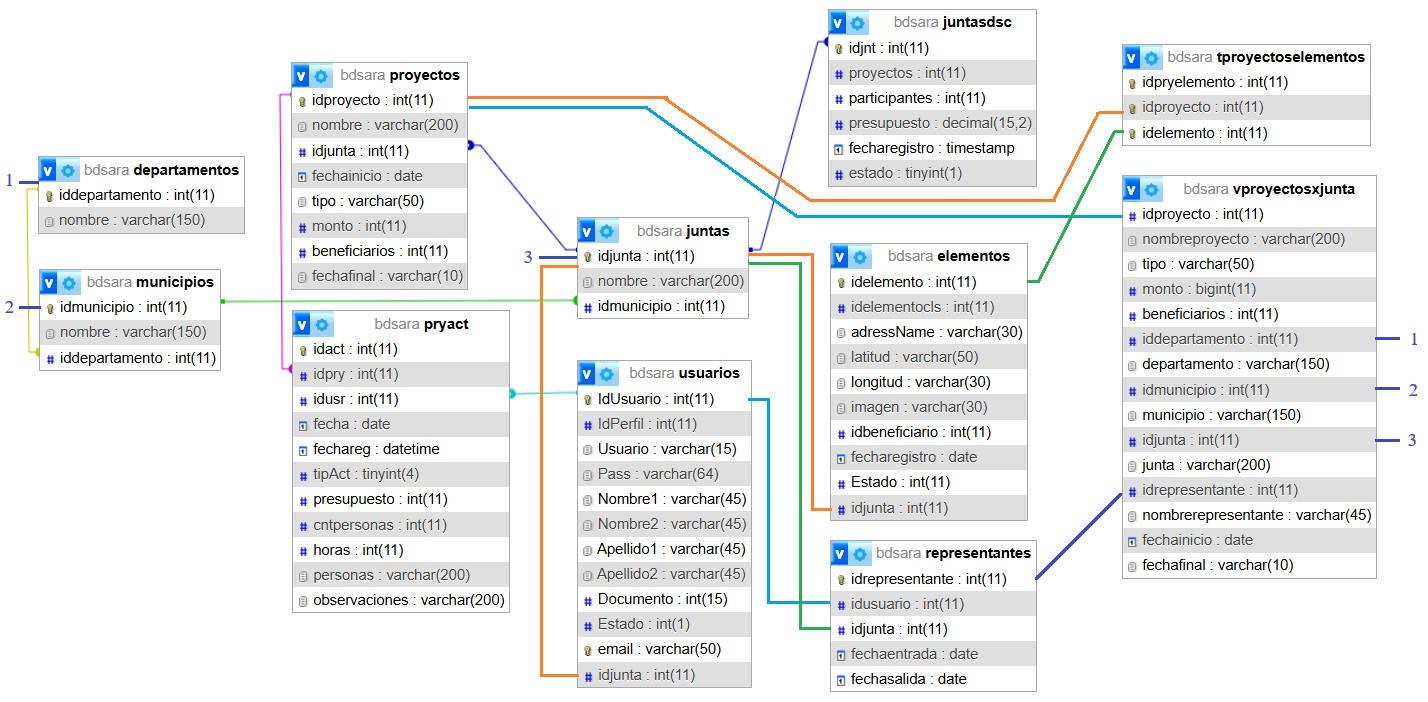
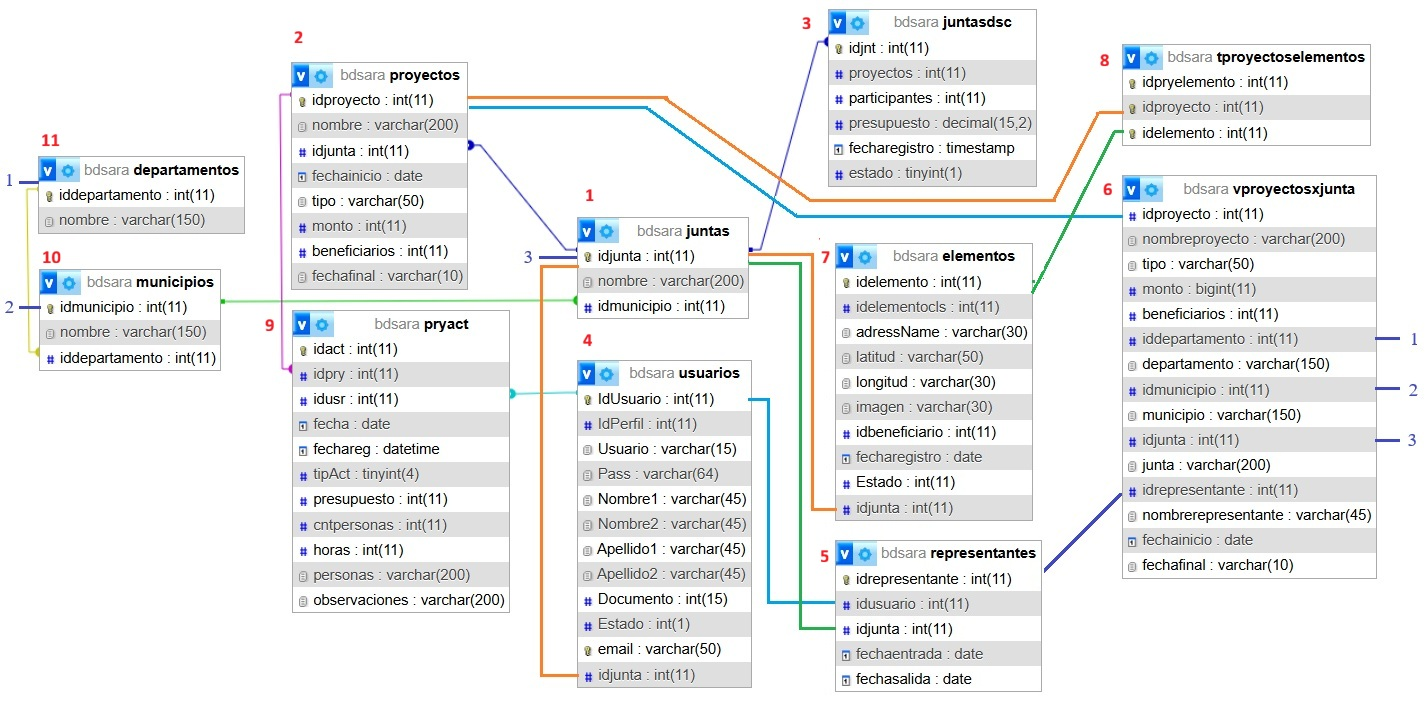
Actualizar Mkdocs y menú principal

diff --git a/back/vstInter.js b/back/vstInter.js
@@ -101,7 +101,7 @@ document.addEventListener("DOMContentLoaded", function () {
             <tr>
                 <th>#</th>            
                 <th>Proyecto</th>
-                <th>Monto</th>
+                <th>Dinero</th>
                 <th>-</th>
                 <th>Benef.</th>
                 <th>-</th>
@@ -116,9 +116,9 @@ document.addEventListener("DOMContentLoaded", function () {
                 <tr><td>${fila}</td>
                     <td>${d.proyecto}</td>
                     <td>${d.monto}</td>
-                    <td><img src="../img/barra.png" height="10" width="${ancho1}">
+                    <td><img src="../img/barra.png" height="12" width="${ancho1}">
                     <td>${d.beneficiarios}</td>
-                    <td><img src="../img/barra.png" height="10" width="${ancho2}">
+                    <td><img src="../img/barra.png" height="12" width="${ancho2}">
                     <td>${d.junta}</td>
                     <td>${d.municipio}</td>
                     <td>${d.departamento}</td>

diff --git a/back/estilos.css b/back/estilos.css
@@ -1,7 +1,6 @@
-        body { font-family: Arial; padding: 20px; font-size: 14px;}
+        body { font-family: Arial; padding: 10px; font-size: 12px;}
         form { margin-bottom: 20px; padding: 10px; background: #f7f7f7; border-radius: 6px; }
-        label { display: inline-block; width: 150px; }
-        table { width: 100%; border-collapse: collapse; margin-top: 15px; }
+        table { width: 100%; border-collapse: collapse; margin-top: 5px; font-size:12px }
         th, td { border: 1px solid #ccc; padding: 8px; }
         th { background: #eee; }
         .paginacion { margin-top: 20px; }

diff --git a/principal.php b/principal.php
@@ -2,33 +2,26 @@
 include("back/conexion.php"); 
 $link = conectarse();
 session_start(); ?>
-<html><head><meta><title>SaraII - Indicadores de gestión Comunitaria Rural</title></head><body>
+<html><head><meta><title>SaraII - Indicadores de Administración Comunitaria Rural</title></head><body>
 <?php
 if (isset($_SESSION["usuario"])) {
     echo 'Estas como: '.$_SESSION["usuario"];
     ?>
     &nbsp;<a href="logOut.php">Cerrar sesión</a>
-<nav>
-  <ul>
-    <li><a href="index.php">Inicio</a></li>
-    <?php // if (isset($_SESSION['rol']) && $_SESSION['rol'] === 'admin'): ?>
-      <li>
+    <nav><?php // if (isset($_SESSION['rol']) && $_SESSION['rol'] === 'admin'): ?>
         <ul>
-          <li><a href="admin/indcorelEjec.php">Ind. de Corelación de Ejecución</a></li>  
-          <li><a href="admin/indInterConsMVC.php">Ind. de Intervención Consolidado</a></li>
-          <li><a href="admin/indInterGnrl.php">Ind. de Intervención Detalle</a></li>
-          <li><a href="admin/infGrafElem.php">Inf. Graf. Elementos por JAC</a></li>
-          <li><a href="admin/infTabMesActivPryMVC.php">Inf. Mensual de Actividades</a></li>
+        <li><a href="admin/indcorelEjec.php">Ind. de Corelación de Ejecución</a></li>  
+        <li><a href="admin/indInterConsMVC.php">Ind. de Intervención Consolidado</a></li>
+        <li><a href="admin/indInterGnrl.php">Ind. de Intervención General</a></li>
+        <li><a href="admin/infElem.php">Inf. de Elementos por JAC</a></li>
+        <li><a href="admin/infActivMesPryMVC.php">Inf. de Actividades</a></li>
         </ul>
-      </li>
-    <?php //endif; ?>
-  </ul>
-</nav>    
+    </nav>    
     <div class="container">
         <div class="col-md-3"><?php
         if ($_SESSION["rol"] == 1) {
-//            echo '<a href="usuarios.php">Gestión de Usuarios</a><br>';
-//            echo '<a href="productos.php">Gestión de Productos</a><br>';
+//         echo '<a href="usuarios.php">Gestión de Usuarios</a><br>';
+//         echo '<a href="juntas.php">Gestión de JAC</a><br>';
         }
         ?>
         </div>

diff --git a/back/vstActiv.php b/back/vstActiv.php
@@ -1,7 +1,7 @@
 <?php
 function mostrarTablaActividades($datos) {
 ?>
-<table border="1" cellpadding="5">
+<table >
 <tr>
     <th>#</th>
     <th>Id</th>
@@ -39,14 +39,14 @@ if (!empty($datos)):
         if ($row['presupuesto_proyecto'] > 0) 
              $var = round($row['total_presupuesto_actividades']*50/$row['presupuesto_proyecto'],0);
         else $var = 0;
-        echo '<img src="../img/barra.png" height="10" width="'.$var.'"> '.$var.'%';
+        echo '<img src="../img/barra.png" height="12" width="'.$var.'"> '.$var.'%';
         echo '</td>';
         echo '<td>'.$row['total_personas'];
         echo '<td>'.$row['beneficiarios'].'</td>';
         if ($row['beneficiarios'] > 0) 
              $var = round((($row['total_personas']*100)/$row['total_actividades'])/$row['beneficiarios'],1);
         else $var = 0;  
-        echo '<td><img src="../img/barra.png" height="10" width="'.$var.'"> '.$var.'%'; // = ('.$row["total_personas"].'/'.$row["total_actividades"].')/'.$row["beneficiarios"];
+        echo '<td><img src="../img/barra.png" height="12" width="'.$var.'"> '.$var.'%'; // = ('.$row["total_personas"].'/'.$row["total_actividades"].')/'.$row["beneficiarios"];
         echo '<td>'.$row['total_horas'].'</td>';
         echo '<td>'.$row['total_actividades'].'</td>';
         echo '</tr>';
@@ -58,5 +58,5 @@ else:
 </table>
 <?php
 }
-print_r($datos);
+//print_r($datos);
 mostrarTablaActividades($datos); 

diff --git a/admin/indCorelEjec.php b/admin/indCorelEjec.php
@@ -6,7 +6,7 @@
 </head>
 <body>
 <a href="../principal.php">Principal</a></li>
-<h2>Indicador de Co-relación de Ejecución</h2>
+<h2>Sara II - Indicador de Co-relación de Ejecución</h2>
 <?php
 // === consolidado.php ===
 // modo: departamento / municipio / junta
@@ -200,9 +200,9 @@ $resultado->data_seek(0);
             <th>Municipio</th>
             <th>Vereda</th>
         <?php endif; ?>
-        <th>Proyectos</th><th>Gráfica Proyectos</th>
-        <th>Monto</th><th>Gráfica Monto</th>
-        <th>Beneficiarios</th><th>Gráfica Beneficiarios</th>
+        <th>Proyectos</th><th>-</th>
+        <th>Dinero</th><th>-</th>
+        <th>Benef.</th><th>-</th>
     </tr><?php 
     $contFil = 1;
     while ($row = $resultado->fetch_assoc()): ?>

diff --git a/admin/indInterConsMVC.php b/admin/indInterConsMVC.php
@@ -4,7 +4,7 @@ $rol = $_GET['rol'] ?? 0;
 <html lang="es">
 <head>
 <meta charset="utf-8">
-<title>Intervenciones planteadas</title>
+<title>Sara II - Ind. de Intervenciones Consoliado</title>
 <link rel="stylesheet" href="../back/estilos.css">
 <script src="../back/vstInter.js"></script>
 </head>

diff --git a/admin/indInterGnrl.php b/admin/indInterGnrl.php
@@ -1,7 +1,7 @@
 <html lang="es">
 <head>
 <meta charset="UTF-8">
-<title>Sara II - Ind. Actividades</title>
+<title>Sara II - Ind. de Intervención General</title>
 <link rel="stylesheet" href="../back/estilos.css">
 </head>
 <body>

diff --git a/docs/tecnico/bdest.md b/docs/tecnico/bdest.md
@@ -1,16 +1,16 @@
 # Base de datos Sistema SARA
 
-Laa base de datos de Sara II tiene las siguientes entidades:
+La base de datos de Sara II puede ser comprendida leyendola en el siguiente orden según las entidades:
 
-1. Juntas es entidad central
-2. tiene proyectos 
-3. tiene descripción
-4. tiene usuarios 
-5. en donde uno de ellos puede ser el representante por un periodo de tiempo 
-6. tiene elementos 
-7. que se asocian a los diferentes proyectos 
-8. que tienen actividades que son realizadas por usuarios.
-9. La junta está adscrita a un municpio
-10. que está adscrito a un departamento
-11. Se construyó una vista que se asocia con el proyecto, el departamento, el municipio y el representante.
+1. Las **juntas** son la entidad central sobre la que se generan y tienen:
+2. **proyectos** (con atributos como id, idjunta, fecha de inicio y final, monto, cantidad de beneficiarios)
+3. descripción de metas del proyecto (**tuntasdsc**) con atributos como idjunta y cantidad de proyectos, participantes y presupuesto.
+4. Tiene **usuarios** para saber quien puede acceder a SARA y el rol que le pertenece
+5  en donde uno de ellos puede ser el **representante** por un periodo de tiempo 
+6. cada proyecto debe asociarse a una junta y para ello se construyó una vista (**vproyectosjunta**).
+7. Además, el proyecto tiene **elementos** que son intervenidos por la comunidad y que, 
+8. se asocian (**telementosproyectos**) a los proyectos, en los que se realizan,  
+9. actividades que son realizadas por usuarios (**pryact**).
+10. La junta está adscrita a un **municipio**,
+11. que está adscrito a un **departamento**
 ![Estructura](../img/bd.jpg)

diff --git a/docs/index.md b/docs/index.md
@@ -1,3 +1,3 @@
-# Página de Bienvenida
+# Home Page - Sara II
 En esta sección se detallan los indicadores de intervención en infraestructura 
 apoyados por la Alcaldía y ejecutados por las JAC.
